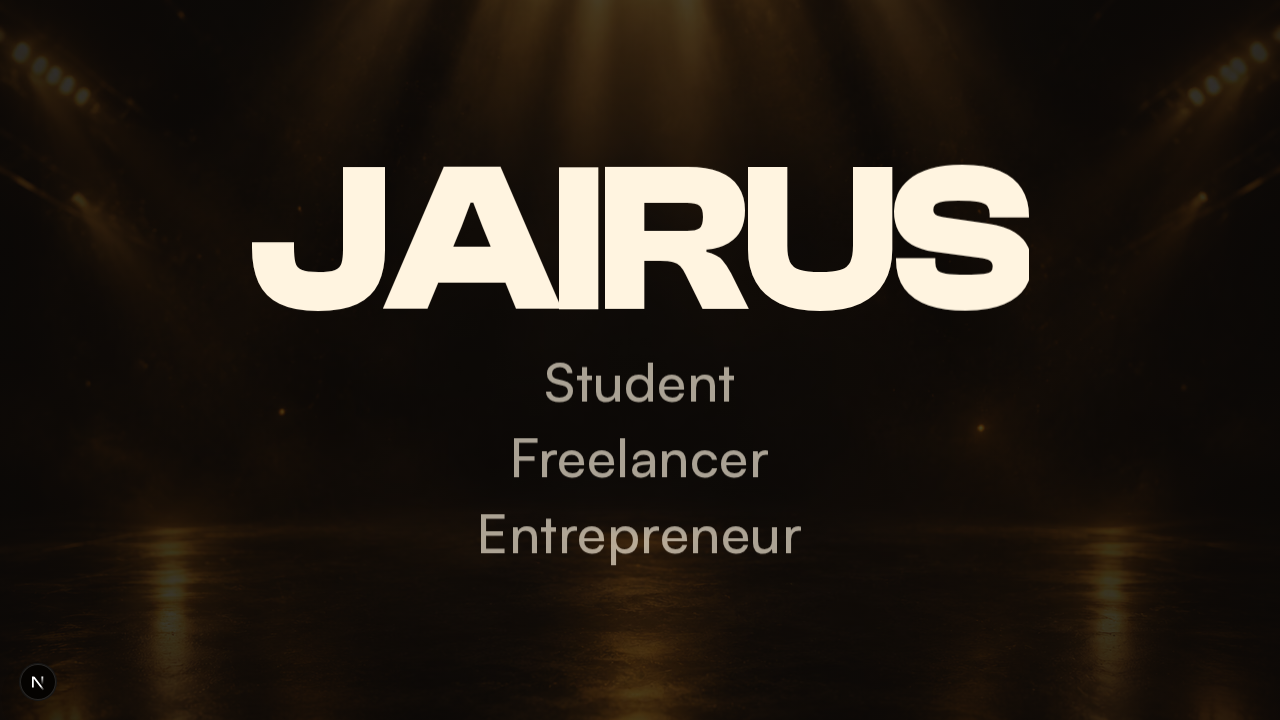
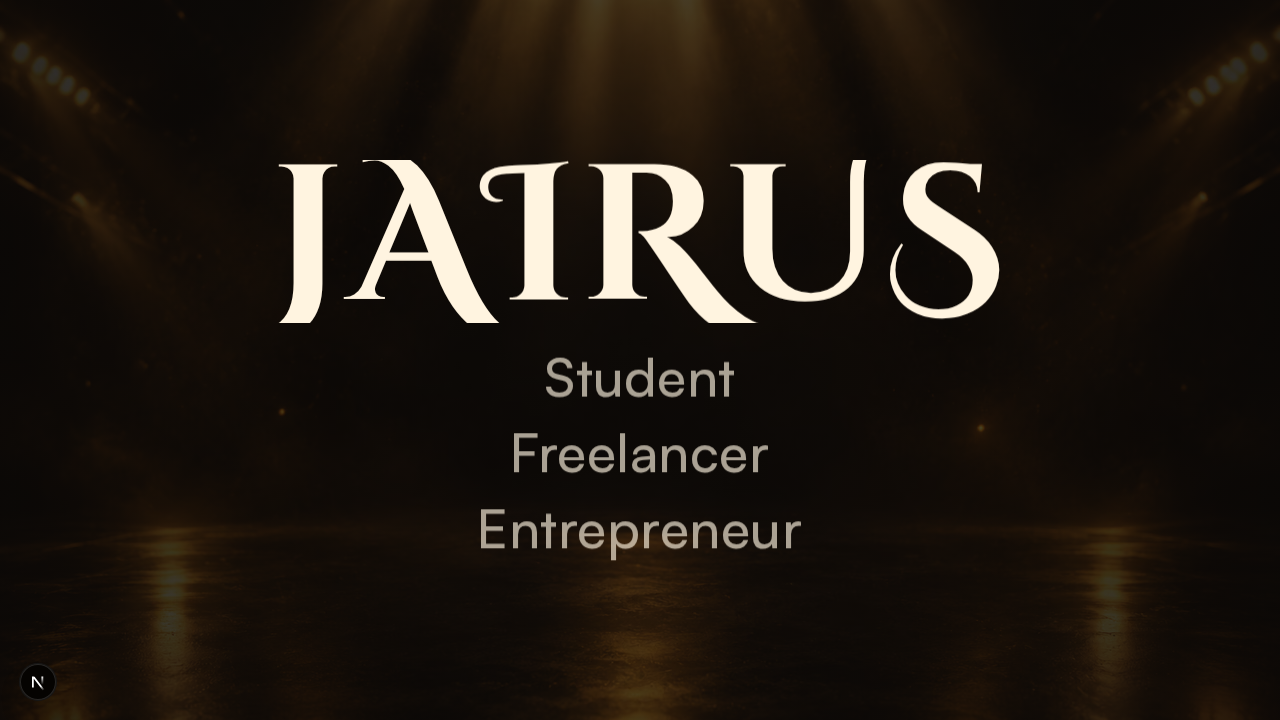
phase 1 build 6

diff --git a/src/styles/globals.css b/src/styles/globals.css
@@ -93,13 +93,14 @@ body {
 
 /* Centre Content Typography */
 .font-hero-name {
-  font-family: 'Clash Display', system-ui, sans-serif;
-  font-size: clamp(3.8rem, 16.5vw, 22rem);
+  font-family: 'Cinzel Decorative', 'Cinzel Variable', 'Cinzel', serif;
+  font-size: clamp(3.2rem, 15vw, 20rem);
   font-weight: 700;
-  line-height: 0.82;
-  letter-spacing: -0.03em;
+  line-height: 0.85;
+  letter-spacing: 0.02em;
   color: var(--color-hero-name);
 }
+
 
 .font-hero-role {
   font-family: 'Satoshi', system-ui, sans-serif;

diff --git a/src/app/layout.tsx b/src/app/layout.tsx
@@ -1,7 +1,10 @@
 import type { Metadata } from 'next';
 import type React from 'react';
+import '@fontsource/cinzel-decorative/700.css';
+import '@fontsource-variable/cinzel';
 import '@/styles/globals.css';
 import { LenisProvider } from '@/motion/lenis/LenisProvider';
+
 
 
 export const metadata: Metadata = {
